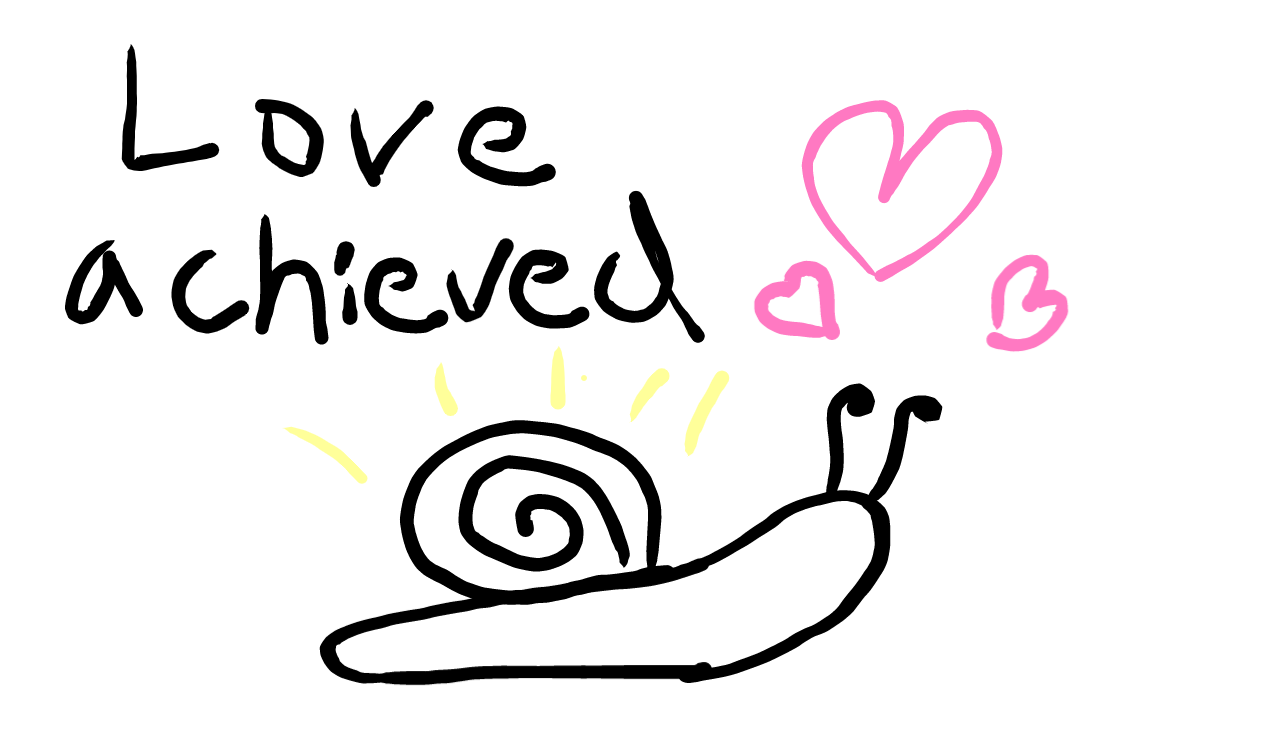
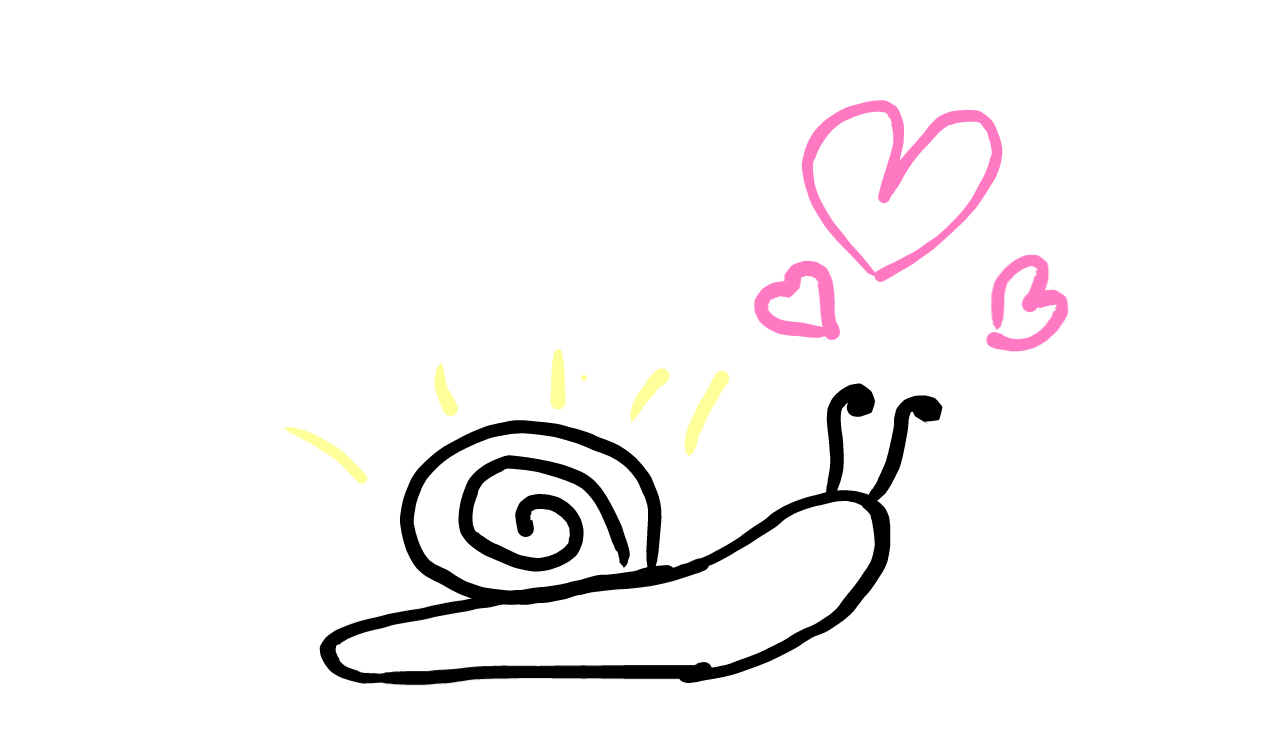
Clean up win screen

Changed region(s): [[0.0308, 0.2486, 0.5545, 0.4662], [0.0924, 0.0622, 0.4621, 0.2486]]

diff --git a/monitor.js b/monitor.js
@@ -10,7 +10,7 @@ function MonitorDisplay(img, deadImg, imgPressed, imgWin, frames) {
     this.timer = new Timer(0, 300);
     this.pressed = false;
     this.points = 0;
-    this.maxPoints = 3000;
+    this.maxPoints = 2800;
     this.win = false;
     this.love = 0;
     this.started = false;
@@ -21,11 +21,16 @@ function MonitorDisplay(img, deadImg, imgPressed, imgWin, frames) {
             strokeWeight(1);
             textFont(monitorFont);
             textSize(20);
-            textAlign(0, 0);
+            textAlign(LEFT);
             text("Virtual Snail Buddy\n\n     Press Start!", canvasWidth * 18 / 40, canvasHeight * 14 / 40);
         } else if (this.win) { // draw win screen
             image(this.imgWin, canvasWidth * 15 / 40, canvasHeight * 7 / 40, canvasWidth * 12 / 40, canvasHeight * 13 / 40);
-            image(this.imgWin, canvasWidth * 15 / 40, canvasHeight * 7 / 40, canvasWidth * 12 / 40, canvasHeight * 13 / 40);
+            stroke('black');
+            strokeWeight(1);
+            textFont(monitorFont);
+            textSize(20);
+            textAlign(LEFT);
+            text("Love achieved!\n    Congrats!", canvasWidth * 15 / 40 + 40, canvasHeight * 9 / 40 + 20);
         } else if (!this.done) { // draw main gain screen
             if (this.pressed) { // draw pressed
                 image(this.imgPressed, canvasWidth * 15 / 40, canvasHeight * 7 / 40, canvasWidth * 12 / 40, canvasHeight * 13 / 40);
@@ -41,14 +46,15 @@ function MonitorDisplay(img, deadImg, imgPressed, imgWin, frames) {
             } else {
                 x = (canvasWidth * 15 / 40) + (canvasWidth * 12 / 40)
             }
-            stroke(0, 0, 0);
+            stroke('black');
             strokeWeight(5);
             line(canvasWidth * 15 / 40, canvasHeight * 9 / 40, x, canvasHeight * 9 / 40);
 
+            stroke('black');
             strokeWeight(1);
             textFont(monitorFont);
             textSize(10);
-            textAlign(0, 0);
+            textAlign(LEFT);
             text("LOVE: " + this.love, canvasWidth * 15 / 40 + 40, canvasHeight * 9 / 40 + 20);
         }
 

diff --git a/timer.js b/timer.js
@@ -52,7 +52,7 @@ function Timer(maxMS, tickMS, callback = () => { }) {
 
     // draw timer at top of screen
     this.drawTop = function () {
-        stroke(0, 0, 0);
+        stroke('black');
         strokeWeight(10);
         x = map(this.elapsed, 0, this.maxMS, 0, width);
         line(0, 0, x, 0);
